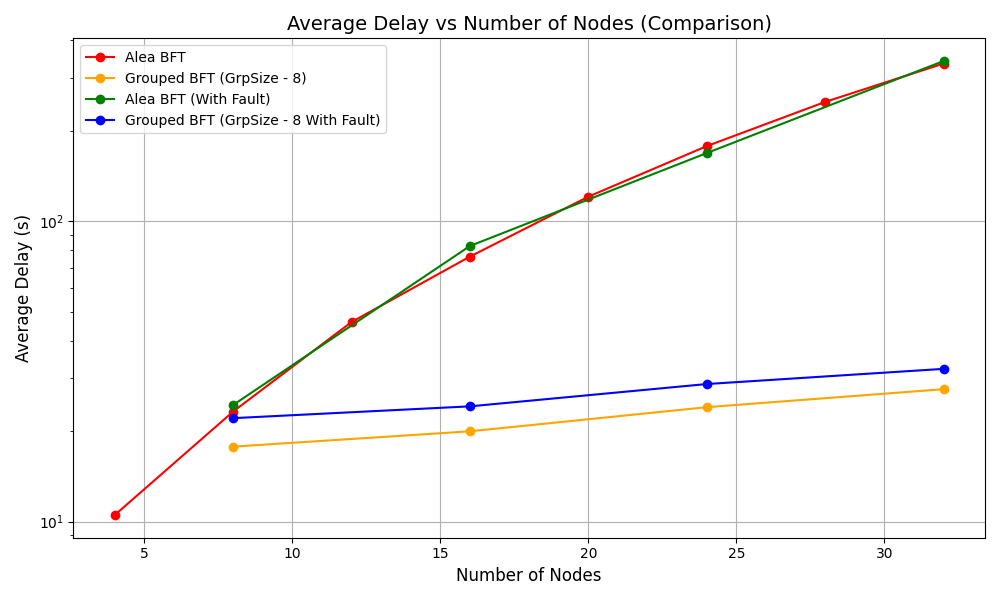
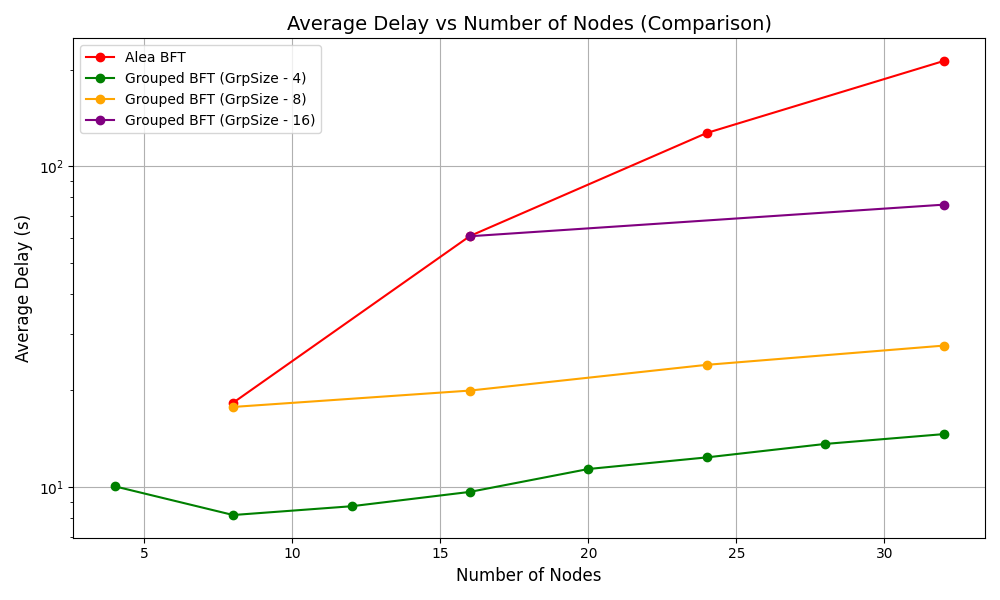
Updated results with average values

diff --git a/thr_comparison_percentage.py b/thr_comparison_percentage.py
@@ -78,12 +78,16 @@ def plot_throughput_vs_nodes(filepaths, labels, colors, output_file):
     alea_data = all_data[0]
     grp_bft_4_data = all_data[1]
     grp_bft_8_data = all_data[2]
+    grp_bft_16_data = all_data[3]
 
     perc_contrib_grp4, alea_indices_grp4, grp4_indices = calculate_percentage_contributions_relative_to_alea(
         alea_data, grp_bft_4_data
     )
     perc_contrib_grp8, alea_indices_grp8, grp8_indices = calculate_percentage_contributions_relative_to_alea(
         alea_data, grp_bft_8_data
+    )
+    perc_contrib_grp16, alea_indices_grp16, grp16_indices = calculate_percentage_contributions_relative_to_alea(
+        alea_data, grp_bft_16_data
     )
 
     # Find the highest percentage contribution for GrpSize 4 (excluding initial nodes)
@@ -109,6 +113,19 @@ def plot_throughput_vs_nodes(filepaths, labels, colors, output_file):
         arrowprops=dict(facecolor="green", arrowstyle="->"),
         fontsize=10,
     )
+
+    # Find the highest percentage contribution for GrpSize 16 (excluding initial nodes)
+    highest_grp16_idx = perc_contrib_grp16.index(max(perc_contrib_grp16))
+    alea_grp16_node = alea_data["nodes"][alea_indices_grp16[highest_grp16_idx]]
+    grp16_value = grp_bft_16_data["throughput"][grp16_indices[highest_grp16_idx]]
+    plt.annotate(
+        f"Grp16 High: {max(perc_contrib_grp16):.2f}%",
+        xy=(alea_grp16_node, grp16_value),
+        xytext=(alea_grp16_node + 1, grp16_value * 1.1),
+        arrowprops=dict(facecolor="purple", arrowstyle="->"),
+        fontsize=10,
+    )
+
 
     # Titles and labels
     plt.title("Average Throughput vs Number of Nodes", fontsize=14)
@@ -144,16 +161,18 @@ def plot_throughput_vs_nodes(filepaths, labels, colors, output_file):
 if __name__ == "__main__":
     # File paths to your throughput data files
     filepaths = [
-        "results/throughputExp_cl_alea_bft_fault.txt",
-        "results/throughputExp_cl_grouped_bft_8_fault.txt",
+        "results/throughputExp_cl_alea_bft.txt",
+        "results/throughputExp_cl_grouped_bft_4.txt",
+        "results/throughputExp_cl_grouped_bft_8.txt",
+        "results/throughputExp_cl_grouped_bft_16.txt",
     ]
 
     # Labels and colors for datasets
-    labels = ["Alea BFT (With Fault)", "Grouped BFT (GrpSize - 8 With Fault)"]
-    colors = ["red", "orange", "green"]
+    labels = ["Alea BFT", "Grouped BFT (GrpSize - 4)", "Grouped BFT (GrpSize - 8)", "Grouped BFT (GrpSize - 16)"]
+    colors = ["blue", "green", "orange", "purple"]
 
     # File path to save the graph
-    output_file = "results/throughput_vs_nodes_%_comparison_fault.png"
+    output_file = "results/throughput_vs_nodes_%_comparison.png"
 
     # Plot the graph
     plot_throughput_vs_nodes(filepaths, labels, colors, output_file)

diff --git a/thr_comparison.py b/thr_comparison.py
@@ -74,17 +74,31 @@ def plot_throughput_vs_nodes(filepaths, labels, colors, output_file):
 #     plot_throughput_vs_nodes(filepaths, labels, colors, output_file)
 
 if __name__ == "__main__":
+    # # File paths to your throughput data files
+    # filepaths = [
+    #     "results/throughputExp_cl_alea_bft.txt",
+    #     "results/throughputExp_cl_grouped_bft_8.txt",
+    #     "results/throughputExp_cl_alea_bft_fault.txt",
+    #     "results/throughputExp_cl_grouped_bft_8_fault.txt",
+    #     "results/throughputExp_cl_grouped_bft_16.txt",
+    # ]
+    #
+    # # Labels and colors for datasets
+    # labels = ["Alea BFT", "Grouped BFT (GrpSize - 8)", "Alea BFT (With Fault)",
+    #           "Grouped BFT (GrpSize - 8 With Fault)", "Grouped BFT (GrpSize - 16)"]
+    # colors = ["blue", "green", "red", "orange", "purple"]
+
     # File paths to your throughput data files
     filepaths = [
         "results/throughputExp_cl_alea_bft.txt",
+        "results/throughputExp_cl_grouped_bft_4.txt",
         "results/throughputExp_cl_grouped_bft_8.txt",
-        "results/throughputExp_cl_alea_bft_fault.txt",
-        "results/throughputExp_cl_grouped_bft_8_fault.txt",
+        "results/throughputExp_cl_grouped_bft_16.txt",
     ]
 
     # Labels and colors for datasets
-    labels = ["Alea BFT", "Grouped BFT (GrpSize - 8)", "Alea BFT (With Fault)", "Grouped BFT (GrpSize - 8 With Fault)"]
-    colors = ["blue", "green", "red", "orange"]
+    labels = ["Alea BFT", "Grouped BFT (GrpSize - 4)", "Grouped BFT (GrpSize - 8)", "Grouped BFT (GrpSize - 16)"]
+    colors = ["blue", "green", "orange", "purple"]
 
     # File path to save the graph
     output_file = "results/throughput_vs_nodes_comparison_all.png"

diff --git a/delay_comparison.py b/delay_comparison.py
@@ -73,17 +73,31 @@ def plot_delay_vs_nodes(filepaths, labels, colors, output_file):
 #     plot_delay_vs_nodes(filepaths, labels, colors, output_file)
 
 if __name__ == "__main__":
+    # # File paths to your delay data files
+    # filepaths = [
+    #     "results/delayExp_cl_alea_bft.txt",
+    #     "results/delayExp_cl_grouped_bft_8.txt",
+    #     "results/delayExp_cl_alea_bft_fault.txt",
+    #     "results/delayExp_cl_grouped_bft_8_fault.txt",
+    #     "results/delayExp_cl_grouped_bft_16.txt",
+    # ]
+    #
+    # # Labels and colors for datasets
+    # labels = ["Alea BFT", "Grouped BFT (GrpSize - 8)", "Alea BFT (With Fault)",
+    #           "Grouped BFT (GrpSize - 8 With Fault)", "Grouped BFT (GrpSize - 16)"]
+    # colors = ["red", "orange", "green", "blue", "purple"]
+
     # File paths to your delay data files
     filepaths = [
         "results/delayExp_cl_alea_bft.txt",
+        "results/delayExp_cl_grouped_bft_4.txt",
         "results/delayExp_cl_grouped_bft_8.txt",
-        "results/delayExp_cl_alea_bft_fault.txt",
-        "results/delayExp_cl_grouped_bft_8_fault.txt",
+        "results/delayExp_cl_grouped_bft_16.txt",
     ]
 
     # Labels and colors for datasets
-    labels = ["Alea BFT", "Grouped BFT (GrpSize - 8)", "Alea BFT (With Fault)", "Grouped BFT (GrpSize - 8 With Fault)"]
-    colors = ["red", "orange", "green", "blue"]
+    labels = ["Alea BFT", "Grouped BFT (GrpSize - 4)", "Grouped BFT (GrpSize - 8)", "Grouped BFT (GrpSize - 16)"]
+    colors = ["red", "green", "orange", "purple"]
 
     # File path to save the graph
     output_file = "results/delay_vs_nodes_comparison_all.png"

diff --git a/delay_comparison_percentage.py b/delay_comparison_percentage.py
@@ -126,16 +126,18 @@ def plot_delay_vs_nodes(filepaths, labels, colors, output_file):
 if __name__ == "__main__":
     # File paths to your delay data files
     filepaths = [
-        "results/delayExp_cl_alea_bft_fault.txt",
-        "results/delayExp_cl_grouped_bft_8_fault.txt"
+        "results/delayExp_cl_alea_bft.txt",
+        "results/delayExp_cl_grouped_bft_4.txt",
+        "results/delayExp_cl_grouped_bft_8.txt",
+        "results/delayExp_cl_grouped_bft_16.txt",
     ]
 
     # Labels and colors for datasets
-    labels = ["Alea BFT (With Fault)", "Grouped BFT (GrpSize - 8 With Fault)"]
-    colors = ["red", "orange"]
+    labels = ["Alea BFT", "Grouped BFT (GrpSize - 4)", "Grouped BFT (GrpSize - 8)", "Grouped BFT (GrpSize - 16)"]
+    colors = ["red", "green", "orange", "purple"]
 
     # File path to save the graph
-    output_file = "results/delay_vs_nodes_comparison_fault_percentage.png"
+    output_file = "results/delay_vs_nodes_comparison_percentage.png"
 
     # Plot the graph
     plot_delay_vs_nodes(filepaths, labels, colors, output_file)

diff --git a/ExperimentConfig.py b/ExperimentConfig.py
@@ -10,8 +10,9 @@ BatchSize = 1
 exp_no = "r3"
 
 if experimentXAxis == "Nodes":
-    folderPath = ("F:/HISHAM_CSE  ASUS/MSc/CSE 6801/Project/Grp-BFT/BFT/logs_new/grouped_bft_"
-                  + str(numberOfPortsTakenInExperiment) + "/" + exp_no + "/")
+    folderPath = ("F:/HISHAM_CSE  ASUS/MSc/CSE 6801/Project/Grp-BFT/BFT/logs_new/grouped_bft_32_gs_16"
+                  # + str(numberOfPortsTakenInExperiment)
+                  + "/" + exp_no + "/")
 else:
     folderPath = ("F:/HISHAM_CSE  ASUS/MSc/CSE 6801/Project/BFT/logsNew/alea_16_bs_"
                   + str(BatchSize) + "/" + exp_no + "/")
@@ -23,7 +24,7 @@ else:
 
 expName = "grouped_bft"    # Experiment name: alea_bft or grouped_bft
 
-grpSize = 8             # Group size (if experiment name is grouped_bft)
+grpSize = 16             # Group size (if experiment name is grouped_bft)
 
 faultName = ""          # "" or "fault" based on the experiment you want to run
 

diff --git a/results/avg/nodes_results_avg_thr.py b/results/avg/nodes_results_avg_thr.py
@@ -1,7 +1,7 @@
 import re
 import numpy as np
 
-prefix = "throughputExp_cl_grouped_bft_8"
+prefix = "throughputExp_cl_grouped_bft_16"
 
 # Input files
 files = [

diff --git a/results/avg/nodes_results_avg_delay.py b/results/avg/nodes_results_avg_delay.py
@@ -1,7 +1,7 @@
 import re
 import numpy as np
 
-prefix = "delayExp_cl_grouped_bft_8"
+prefix = "delayExp_cl_grouped_bft_16"
 
 # Input files
 files = [
